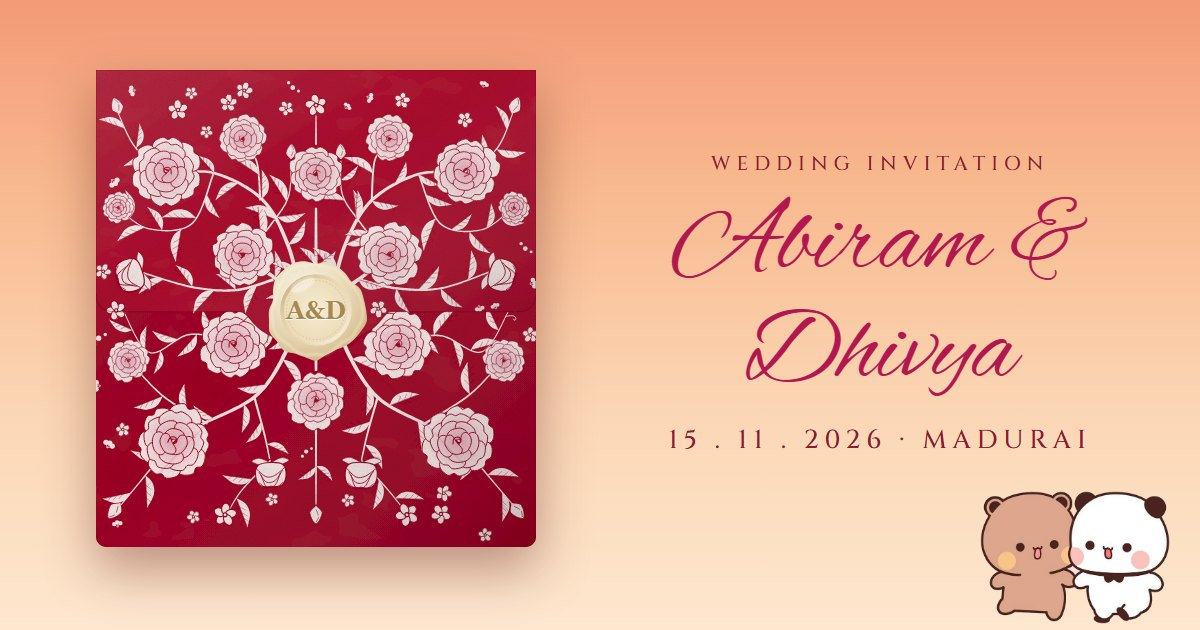
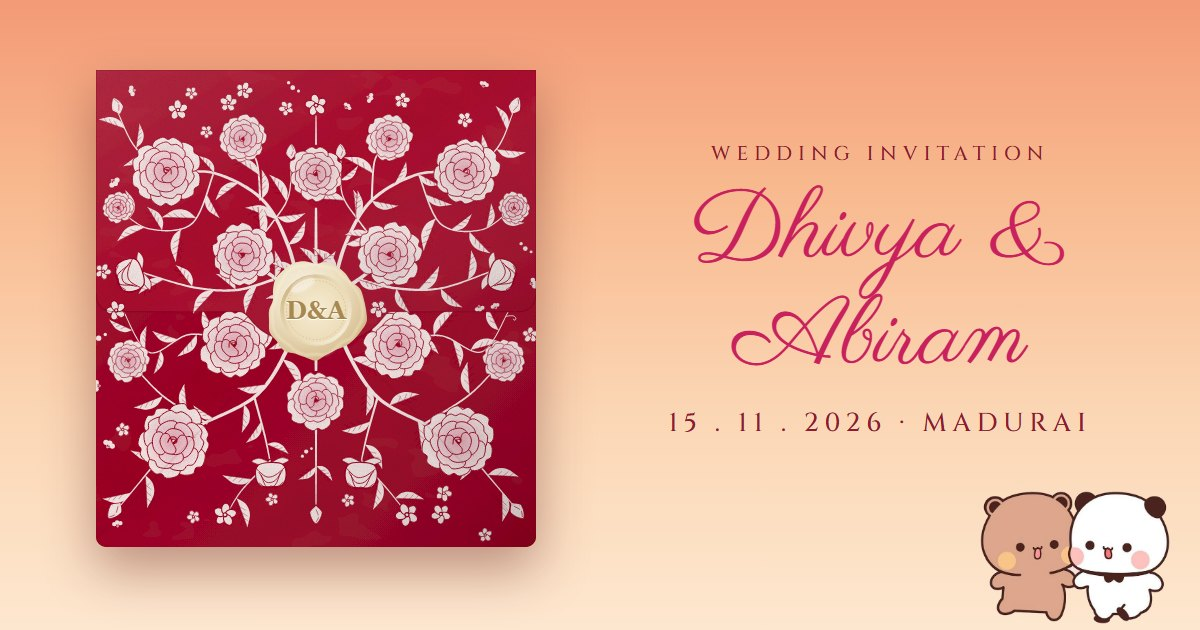
Bride first: Dhivya before Abiram everywhere, D&A seal, #DhivyaWedsAbiram

diff --git a/index.html b/index.html
@@ -3,9 +3,9 @@
 <head>
 <meta charset="utf-8">
 <meta name="viewport" content="width=device-width, initial-scale=1, viewport-fit=cover">
-<title>Abiram & Dhivya | Wedding Invitation</title>
+<title>Dhivya & Abiram | Wedding Invitation</title>
 <meta name="description" content="With joy in our hearts, we invite you to celebrate our wedding on 15th November 2026 in Madurai.">
-<meta property="og:title" content="Abiram & Dhivya | Wedding Invitation">
+<meta property="og:title" content="Dhivya & Abiram | Wedding Invitation">
 <meta property="og:description" content="Tap to open our wedding invitation. 15th November 2026, Madurai.">
 <meta property="og:type" content="website">
 <meta property="og:image" content="https://abiram-ramesh.github.io/wedding/preview.jpg"><meta property="og:url" content="https://abiram-ramesh.github.io/wedding/">
@@ -234,7 +234,7 @@
       <div class="e-flap">
         <div class="e-face e-front">
           <img src="assets/env-flap.svg" alt="">
-          <div class="seal"><img src="assets/seal.svg" alt=""><span>A&amp;D</span></div>
+          <div class="seal"><img src="assets/seal.svg" alt=""><span>D&amp;A</span></div>
         </div>
         <div class="e-face e-inside"><img src="assets/env-flap-in.svg" alt=""></div>
       </div>
@@ -256,13 +256,13 @@
         <div class="om tamil">‖ ஸ்ரீ விநாயகர் துணை ‖</div>
         <div class="bless">Together with our families, we seek your gracious presence and blessings on the auspicious occasion of the wedding celebration of</div>
         <div class="names">
-        <div class="name script">Abiram</div>
-        <svg class="flo" viewBox="0 0 160 14" aria-hidden="true"><path d="M6 7 Q40 2 70 7 M90 7 Q120 2 154 7" stroke="#e4a5b8" stroke-width="1.1" fill="none"/><path d="M80 2 C83 5 83 9 80 12 C77 9 77 5 80 2Z M74 7 C77 4 83 4 86 7 C83 10 77 10 74 7Z" fill="#d76b8f"/></svg>
-        <div class="par">S/o Mr. D. Ramesh &amp;<br>Late Mrs. R. Vasundradevi</div>
-        <div class="with script">with</div>
         <div class="name script">Dhivya</div>
         <svg class="flo" viewBox="0 0 160 14" aria-hidden="true"><path d="M6 7 Q40 2 70 7 M90 7 Q120 2 154 7" stroke="#e4a5b8" stroke-width="1.1" fill="none"/><path d="M80 2 C83 5 83 9 80 12 C77 9 77 5 80 2Z M74 7 C77 4 83 4 86 7 C83 10 77 10 74 7Z" fill="#d76b8f"/></svg>
         <div class="par">D/o Mr. K. Madurai Muthu &amp;<br>Mrs. M. Shantha</div>
+        <div class="with script">with</div>
+        <div class="name script">Abiram</div>
+        <svg class="flo" viewBox="0 0 160 14" aria-hidden="true"><path d="M6 7 Q40 2 70 7 M90 7 Q120 2 154 7" stroke="#e4a5b8" stroke-width="1.1" fill="none"/><path d="M80 2 C83 5 83 9 80 12 C77 9 77 5 80 2Z M74 7 C77 4 83 4 86 7 C83 10 77 10 74 7Z" fill="#d76b8f"/></svg>
+        <div class="par">S/o Mr. D. Ramesh &amp;<br>Late Mrs. R. Vasundradevi</div>
         </div>
       </div>
       <img class="leaves" src="assets/hero-leaves.svg" style="left:-8px" alt="">
@@ -309,7 +309,7 @@
           <div class="pill">Traditional Tamil Wedding</div>
         </div>
         <div class="photo" style="width:80%;margin-top:16px">
-          <img class="pic" src="assets/ai-wedding.webp" style="left:14.5%;top:12%;width:71%;height:81.2%;border-radius:47% 47% 0 0 / 30% 30% 0 0" alt="Abiram and Dhivya">
+          <img class="pic" src="assets/ai-wedding.webp" style="left:14.5%;top:12%;width:71%;height:81.2%;border-radius:47% 47% 0 0 / 30% 30% 0 0" alt="Dhivya and Abiram">
           <img class="frame" src="assets/frame-arch.svg" alt="">
         </div>
         <img class="lv" src="assets/hero-leaves.svg" style="left:-4%" alt="">
@@ -332,7 +332,7 @@
   </section>
 
   <section class="await reveal">
-    <img class="ai" src="assets/ai-floor.webp" alt="Abiram and Dhivya">
+    <img class="ai" src="assets/ai-floor.webp" alt="Dhivya and Abiram">
     <h2 class="title script" style="font-size:34px;white-space:nowrap">Awaiting your noble presence</h2>
     <img class="div" src="assets/divider.svg" alt="">
     <p>We look forward to celebrating our special day with you. Your presence and blessings will make this occasion truly memorable.</p>
@@ -341,10 +341,10 @@
   <section class="ending">
     <img src="assets/bd-piggyback.webp" style="width:120px;margin:0 auto 8px;filter:drop-shadow(0 4px 8px rgba(0,0,0,.25))" alt="">
     <div class="caps">With love</div>
-    <div class="script">Abiram &amp; Dhivya</div>
+    <div class="script">Dhivya &amp; Abiram</div>
     <img class="div" src="assets/divider.svg" style="filter:brightness(1.6) saturate(.4)" alt="">
     <div class="date">15th November 2026</div>
-    <div class="hash">#AbiramWedsDhivya</div>
+    <div class="hash">#DhivyaWedsAbiram</div>
   </section>
 </div>
 
